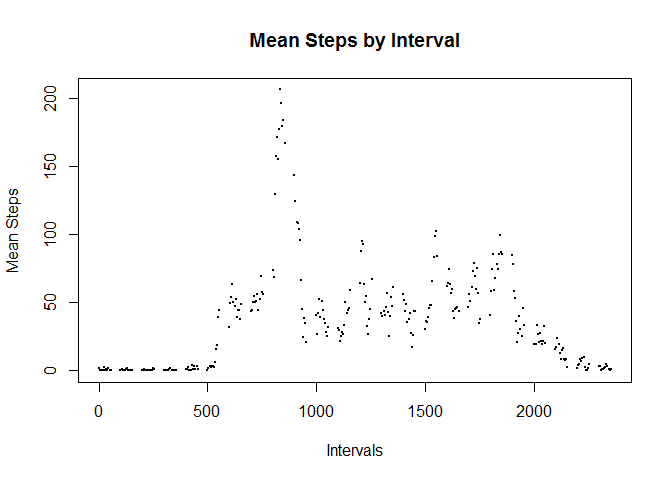
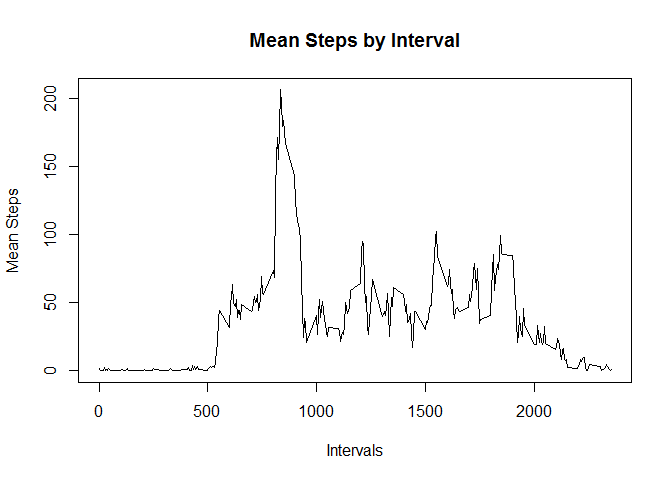
minor update

diff --git a/PA1_template.html b/PA1_template.html
@@ -163,8 +163,8 @@ hist(total.steps, main = &quot;Frequency of Total Steps per Day&quot;, xlab = &q
 <div id="the-mean-number-of-steps-taken-at-every-interval-was-plotted-which-illustrated-a-peak-mean-of-206.1698-at-interval-835." class="section level3">
 <h3>The mean number of steps taken at every interval was plotted which illustrated a peak mean of 206.1698 at interval 835.</h3>
 <pre class="r"><code>int.steps &lt;- as.numeric(rowMeans(all.data, na.rm = TRUE))
-plot(x = intervals, y=int.steps, xlab = &quot;Intervals&quot;, ylab = &quot;Mean Steps&quot;, main = &quot;Mean Steps by Interval&quot;, pch = 20, cex = 0.5)</code></pre>
[1 lines of base64/hex data omitted]
+plot(type = &quot;l&quot;, x = intervals, y=int.steps, xlab = &quot;Intervals&quot;, ylab = &quot;Mean Steps&quot;, main = &quot;Mean Steps by Interval&quot;, pch = 20, cex = 0.5)</code></pre>
[1 lines of base64/hex data omitted]
 <pre class="r"><code>tsteps &lt;- cbind(intervals, int.steps)
 print(tsteps[which.max(tsteps[,2]),])</code></pre>
 <pre><code>## intervals int.steps 
@@ -207,9 +207,9 @@ wkend.data &lt;- all.data2[ ,wkends]
 wkday.steps &lt;- as.numeric(rowMeans(wkday.data))
 wkend.steps &lt;- as.numeric(rowMeans(wkend.data))
 par(mfrow=c(1,2))
-plot(x = intervals, y=wkday.steps, xlab = &quot;Intervals&quot;, ylab = &quot;Mean Steps&quot;, main = &quot;Weekday Mean Steps by Interval&quot;, ylim = c(0,250), pch = 20, cex = 0.5)
-plot(x = intervals, y=wkend.steps, xlab = &quot;Intervals&quot;, ylab = &quot;&quot;, yaxt=&quot;n&quot;, main = &quot;Weekend Mean Steps by Interval&quot;, ylim = c(0,250), col = &quot;red&quot;, pch = 20, cex = 0.5)</code></pre>
[1 lines of base64/hex data omitted]
+plot(type = &quot;l&quot;, x = intervals, y=wkday.steps, xlab = &quot;Intervals&quot;, ylab = &quot;Mean Steps&quot;, main = &quot;Weekday Mean Steps by Interval&quot;, ylim = c(0,250), pch = 20, cex = 0.5)
+plot(type = &quot;l&quot;, x = intervals, y=wkend.steps, xlab = &quot;Intervals&quot;, ylab = &quot;&quot;, yaxt=&quot;n&quot;, main = &quot;Weekend Mean Steps by Interval&quot;, ylim = c(0,250), col = &quot;red&quot;, pch = 20, cex = 0.5)</code></pre>
[1 lines of base64/hex data omitted]
 </div>
 
 

diff --git a/PA1_template.md b/PA1_template.md
@@ -77,7 +77,7 @@ summary(total.steps)
 
 ```r
 int.steps <- as.numeric(rowMeans(all.data, na.rm = TRUE))
-plot(x = intervals, y=int.steps, xlab = "Intervals", ylab = "Mean Steps", main = "Mean Steps by Interval", pch = 20, cex = 0.5)
+plot(type = "l", x = intervals, y=int.steps, xlab = "Intervals", ylab = "Mean Steps", main = "Mean Steps by Interval", pch = 20, cex = 0.5)
 ```
 
 ![](PA1_template_files/figure-html/unnamed-chunk-4-1.png)<!-- -->
@@ -167,8 +167,8 @@ wkend.data <- all.data2[ ,wkends]
 wkday.steps <- as.numeric(rowMeans(wkday.data))
 wkend.steps <- as.numeric(rowMeans(wkend.data))
 par(mfrow=c(1,2))
-plot(x = intervals, y=wkday.steps, xlab = "Intervals", ylab = "Mean Steps", main = "Weekday Mean Steps by Interval", ylim = c(0,250), pch = 20, cex = 0.5)
-plot(x = intervals, y=wkend.steps, xlab = "Intervals", ylab = "", yaxt="n", main = "Weekend Mean Steps by Interval", ylim = c(0,250), col = "red", pch = 20, cex = 0.5)
+plot(type = "l", x = intervals, y=wkday.steps, xlab = "Intervals", ylab = "Mean Steps", main = "Weekday Mean Steps by Interval", ylim = c(0,250), pch = 20, cex = 0.5)
+plot(type = "l", x = intervals, y=wkend.steps, xlab = "Intervals", ylab = "", yaxt="n", main = "Weekend Mean Steps by Interval", ylim = c(0,250), col = "red", pch = 20, cex = 0.5)
 ```
 
 ![](PA1_template_files/figure-html/unnamed-chunk-8-1.png)<!-- -->
